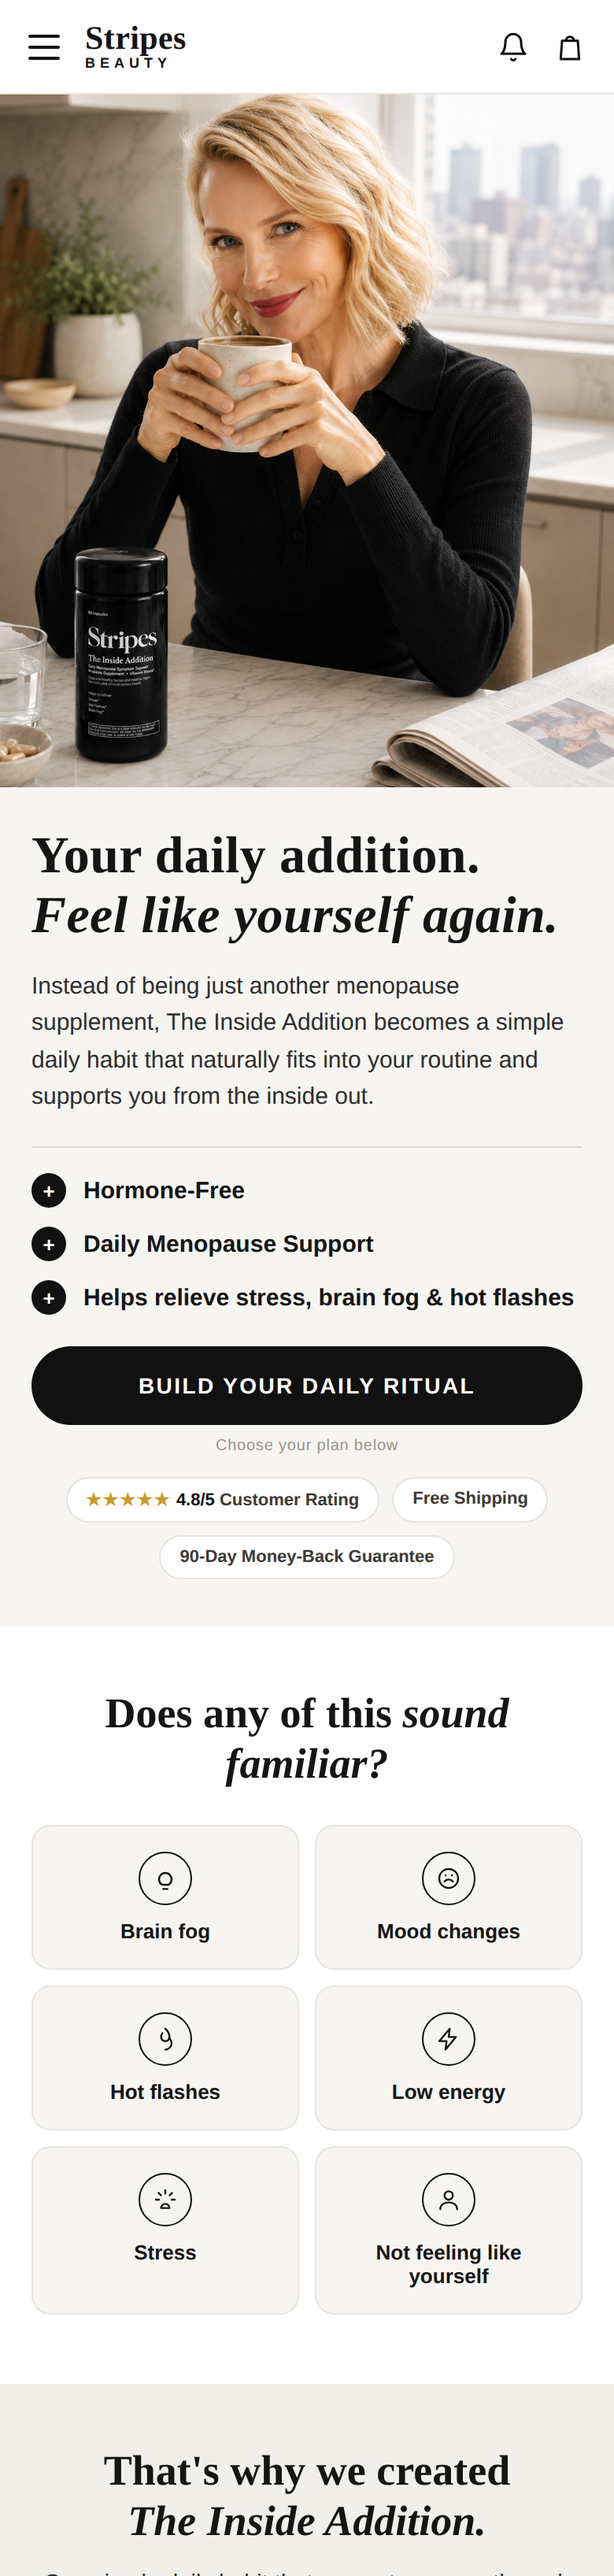
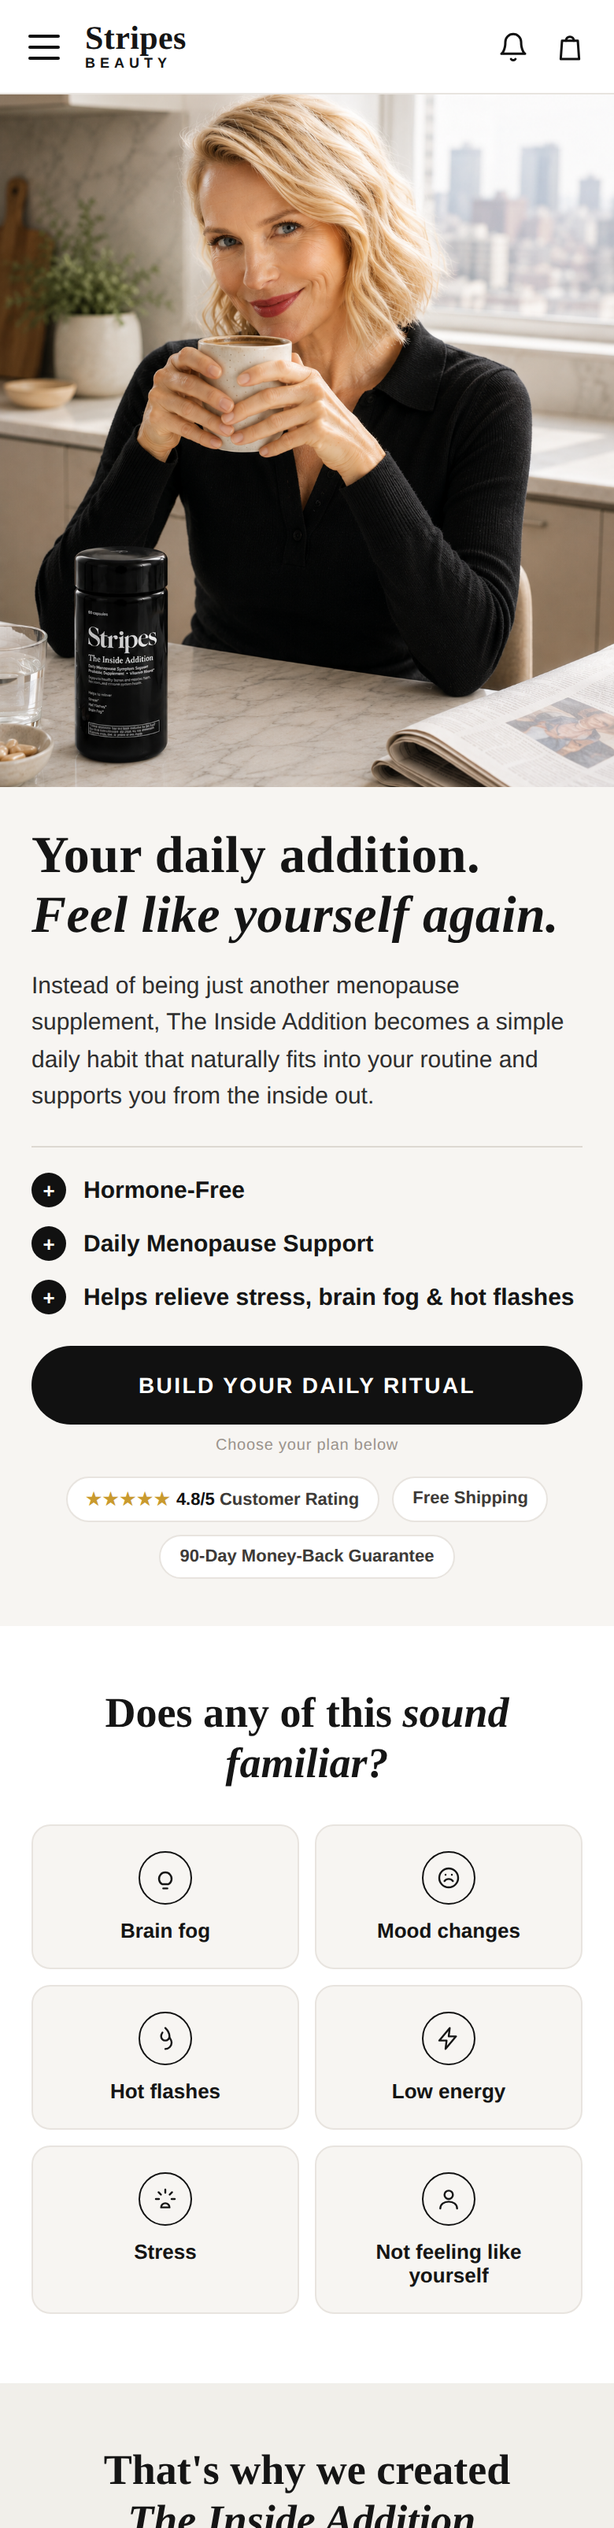
Landing page: real product + ingredient images
Solution section uses editorial Inside Addition shot; purchase uses clean
bottle (contain); 'What's inside' rebuilt as 3-card carousel with the provided
pre-labeled ingredient images (Ashwagandha, Probiotics, Vitamins D/B/E) + short
descriptions, 3 dots.

Claude-Session: https://claude.ai/code/session_01GoAG3ySswQXo2H1hh5EwTk

diff --git a/diagrams/slides/p2-02-landing.html b/diagrams/slides/p2-02-landing.html
@@ -60,7 +60,7 @@
   /* solution */
   .sol{background:var(--stone);}
   .prodshot{height:240px;background:#F4EFE9;border-radius:14px;position:relative;margin-top:22px;overflow:hidden;}
-  .prodshot img{width:100%;height:100%;object-fit:cover;object-position:center 62%;}
+  .prodshot img{width:100%;height:100%;object-fit:cover;object-position:center 48%;}
   .prodshot .pl{position:absolute;left:14px;top:12px;font-size:9px;font-weight:700;letter-spacing:1.2px;color:#fff;background:var(--burg);border-radius:999px;padding:5px 11px;}
   .bgrid{display:grid;grid-template-columns:1fr 1fr;gap:10px;margin-top:18px;}
   .bc{background:#fff;border:1px solid var(--line);border-radius:12px;padding:16px 13px;text-align:center;}
@@ -71,12 +71,10 @@
   /* what's inside */
   .inside{background:#fff;}
   .caro{display:flex;gap:12px;margin-top:22px;overflow:hidden;}
-  .icard{flex:0 0 262px;background:var(--cream);border:1px solid var(--line);border-radius:14px;padding:14px 14px 18px;}
-  .icard .im{height:120px;border-radius:10px;background:linear-gradient(150deg,#EFE6DA,#E2D2BF);position:relative;}
-  .icard .im::after{content:"";position:absolute;left:50%;top:50%;transform:translate(-50%,-50%);width:54px;height:54px;border-radius:50%;background:rgba(255,255,255,.5);}
-  .icard .tag{display:inline-block;margin-top:12px;font-size:9px;font-weight:700;letter-spacing:1px;color:#fff;background:var(--burg);border-radius:999px;padding:4px 10px;}
-  .icard .n{font-size:14px;font-weight:700;letter-spacing:.4px;text-transform:uppercase;margin-top:9px;}
-  .icard .d{font-size:12.5px;color:var(--body);line-height:1.5;margin-top:6px;}
+  .icard{flex:0 0 264px;background:var(--cream);border:1px solid var(--line);border-radius:14px;padding:16px 16px 18px;}
+  .icard .im{width:100%;height:82px;display:flex;align-items:center;}
+  .icard .im img{height:64px;width:auto;}
+  .icard .d{font-size:12.5px;color:var(--body);line-height:1.5;margin-top:10px;}
   .dots{display:flex;gap:6px;justify-content:center;margin-top:16px;}
   .dots span{width:16px;height:3px;border-radius:2px;background:#DAD5CE;}
   .dots span.on{background:#111;}
@@ -117,7 +115,7 @@
   /* purchase */
   .buy{background:#fff;padding:36px 20px 40px;}
   .buyshot{height:300px;background:#F4EFE9;border-radius:14px;position:relative;overflow:hidden;}
-  .buyshot img{width:100%;height:100%;object-fit:cover;object-position:center 58%;}
+  .buyshot img{width:100%;height:100%;object-fit:contain;background:#fff;}
   .buy h2{font-family:Georgia,serif;font-size:31px;margin-top:20px;text-align:left;}
   .buy .subred{font-size:14px;font-weight:700;color:var(--burg);margin-top:8px;line-height:1.45;}
   .buy .rate{display:flex;align-items:center;gap:8px;margin-top:8px;}
@@ -211,7 +209,7 @@
 <div class="sect sol">
   <h2>That's why we created<br><span class="it">The Inside Addition.</span></h2>
   <div class="lead">One simple daily habit that supports women through perimenopause and menopause.</div>
-  <div class="prodshot"><img src="assets/product-duo.png" alt=""><span class="pl">THE INSIDE ADDITION</span></div>
+  <div class="prodshot"><img src="assets/product-editorial.png" alt=""><span class="pl">THE INSIDE ADDITION</span></div>
   <div class="bgrid">
     <div class="bc"><div class="ic"><svg viewBox="0 0 24 24" fill="none" stroke="currentColor" stroke-width="1.8" stroke-linecap="round" stroke-linejoin="round"><path d="M12 2l7 4v6c0 5-3.5 8-7 10-3.5-2-7-5-7-10V6z"/></svg></div><div class="h">Hormone-free</div></div>
     <div class="bc"><div class="ic"><svg viewBox="0 0 24 24" fill="none" stroke="currentColor" stroke-width="1.8" stroke-linecap="round" stroke-linejoin="round"><path d="M9 18a6 6 0 1 1 6 0M9 18h6M10 22h4"/></svg></div><div class="h">Helps support brain fog &amp; stress</div></div>
@@ -225,20 +223,19 @@
   <h2>What's inside <span class="it">matters.</span></h2>
   <div class="caro">
     <div class="icard">
-      <div class="im"></div>
-      <span class="tag">THE INSIDE ADDITION</span>
-      <div class="n">Ashwagandha</div>
+      <div class="im"><img src="assets/ing-ashwagandha.png" alt="Ashwagandha"></div>
       <div class="d">An adaptogen traditionally used to help the body manage everyday stress.</div>
     </div>
     <div class="icard">
-      <div class="im"></div>
-      <span class="tag">THE INSIDE ADDITION</span>
-      <div class="n">Probiotics</div>
+      <div class="im"><img src="assets/ing-probiotics.png" alt="Probiotics"></div>
       <div class="d">Supports gut balance - where a lot of daily wellbeing starts.</div>
     </div>
+    <div class="icard">
+      <div class="im"><img src="assets/ing-vitamins.png" alt="Vitamins D, B, E"></div>
+      <div class="d">Everyday nutrients that support energy, mood and immune health.</div>
+    </div>
   </div>
-  <div class="dots"><span class="on"></span><span></span><span></span><span></span></div>
-  <div class="lead" style="margin-top:14px;font-size:12.5px;color:#8a837c;">Also inside: Vitamins B, D &amp; E and botanical extracts.</div>
+  <div class="dots"><span class="on"></span><span></span><span></span></div>
 </div>
 
 <!-- 5 RESULTS -->
@@ -285,7 +282,7 @@
 
 <!-- 8 PURCHASE -->
 <div class="buy">
-  <div class="buyshot"><img src="assets/product-duo.png" alt=""></div>
+  <div class="buyshot"><img src="assets/product-bottle.png" alt=""></div>
   <h2>Build Your Daily Ritual</h2>
   <div class="subred">The Inside Addition &middot; Daily menopause support &middot; 60 capsules</div>
   <div class="rate"><span class="st">&#9733;&#9733;&#9733;&#9733;&#9733;</span><span class="rc">4.8/5</span></div>
